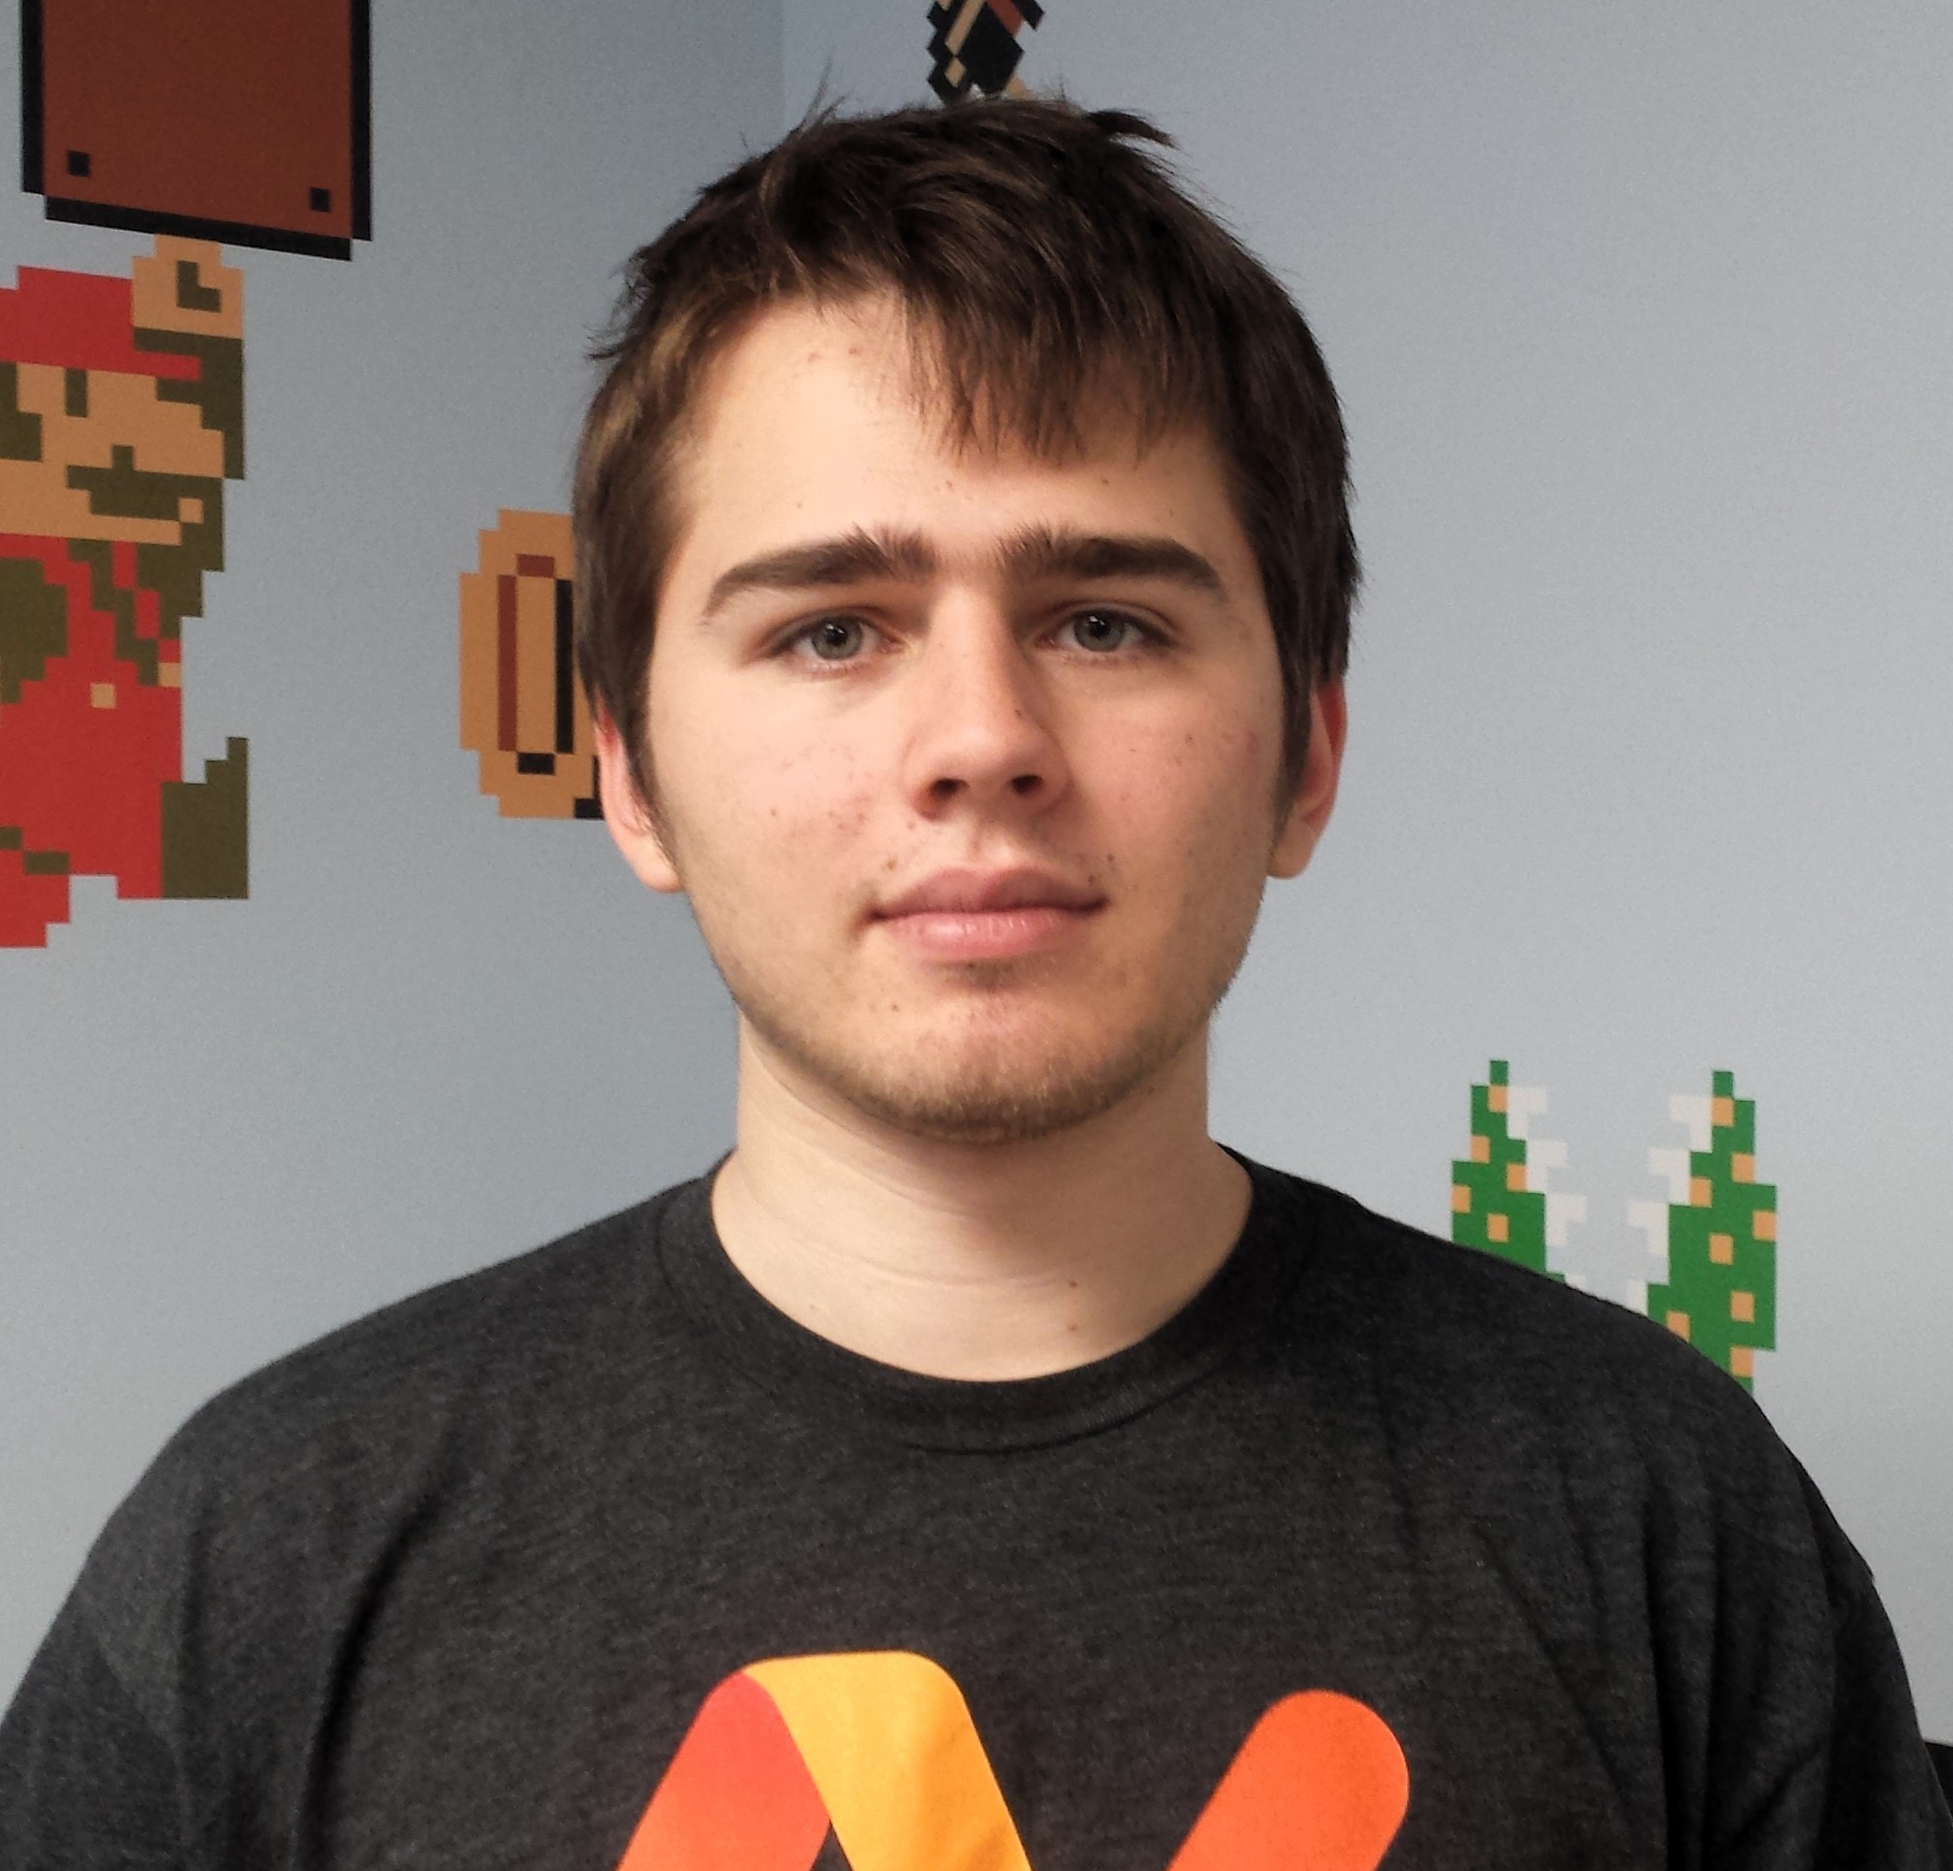
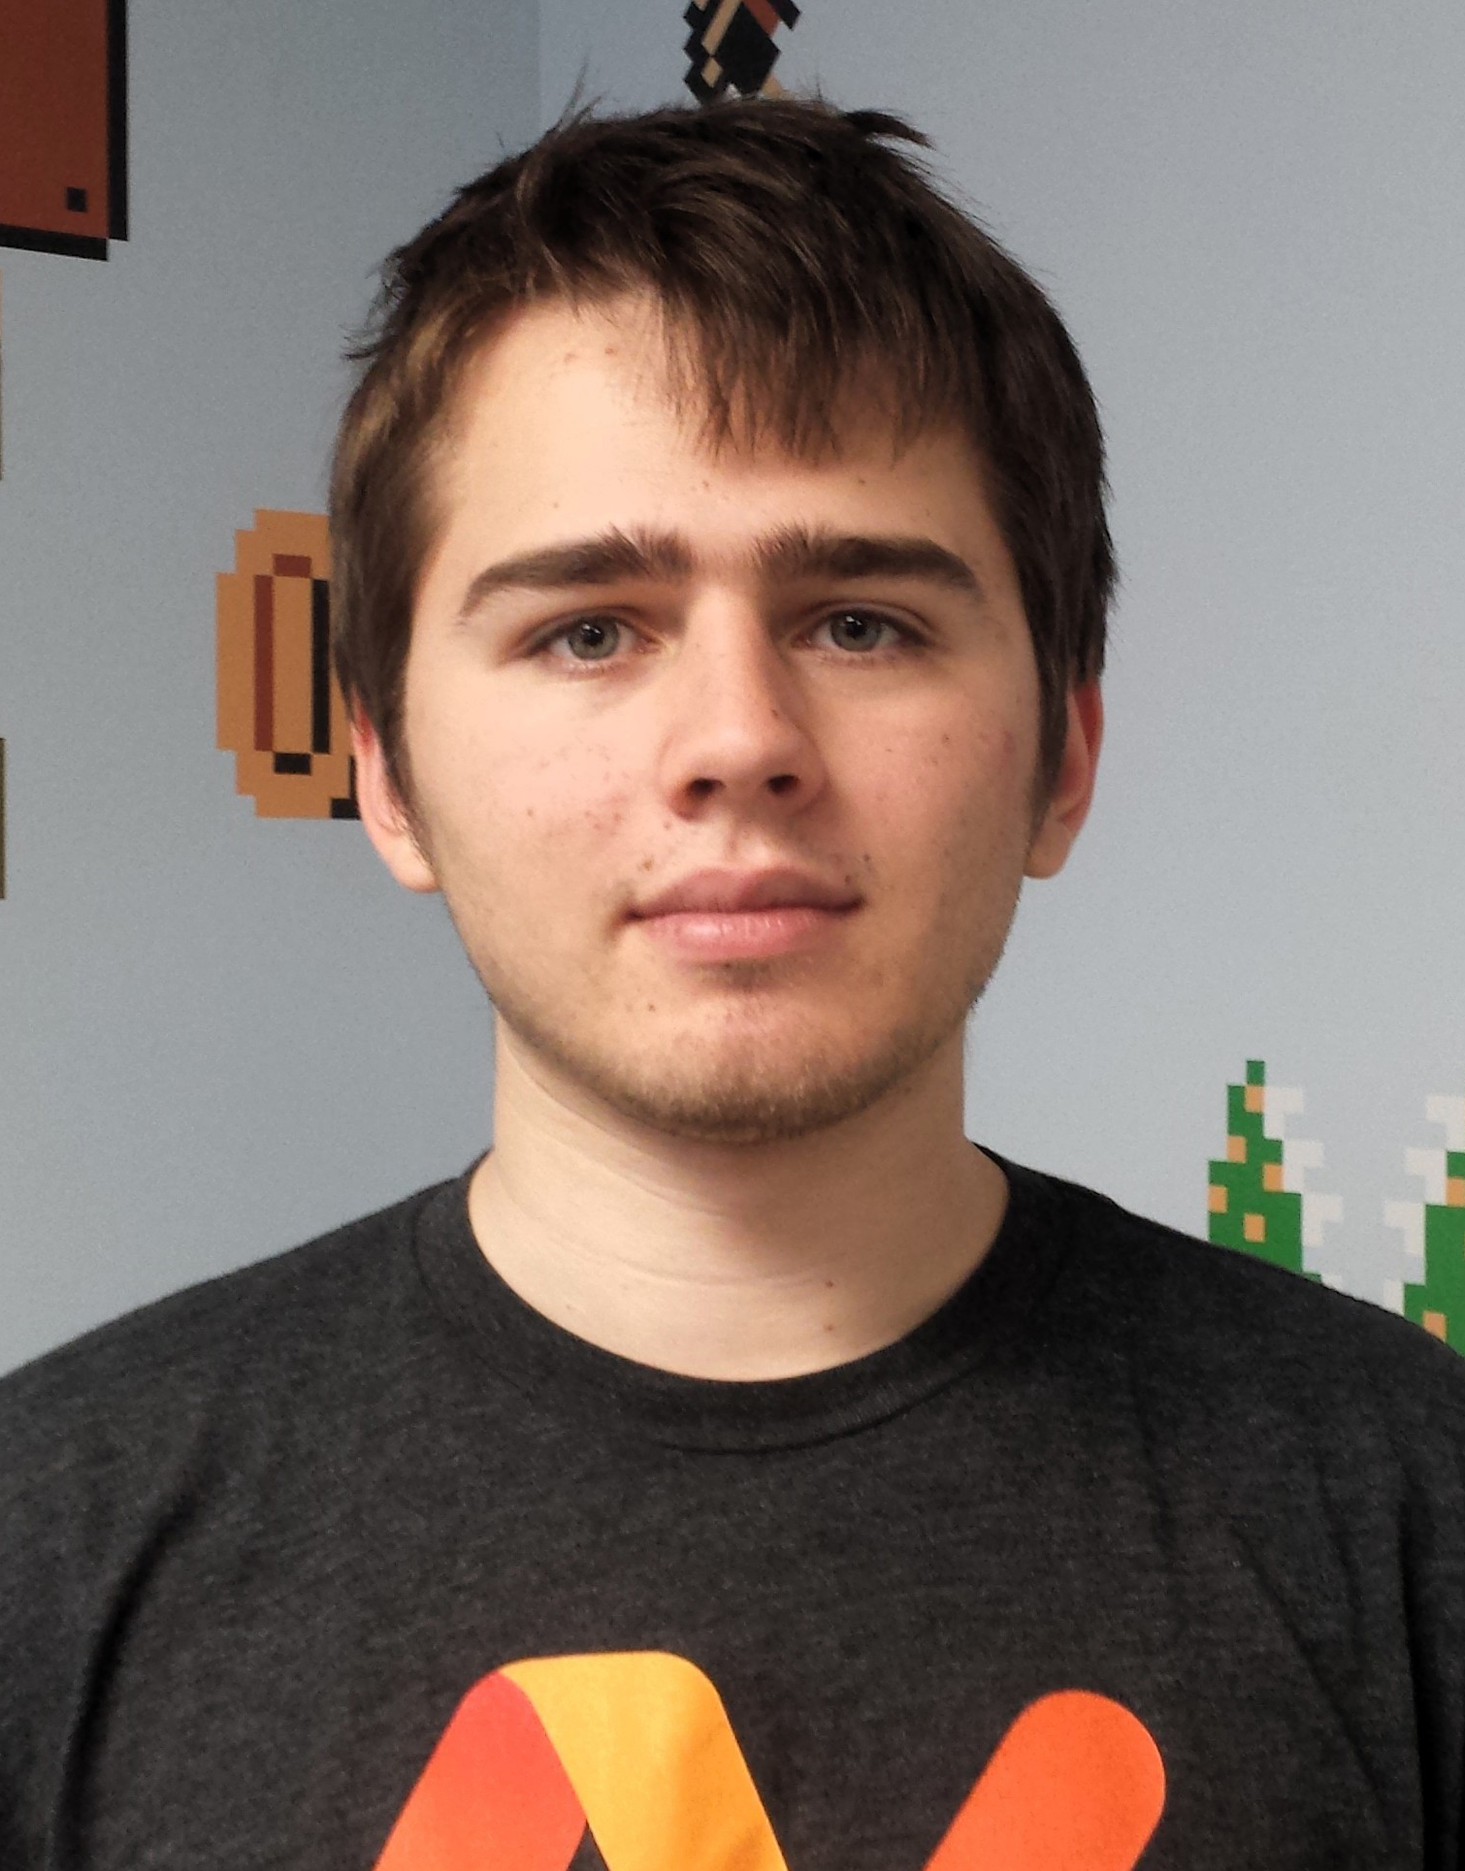
Adding some news posts and resizing team photos

diff --git a/news/_posts/2017-07-17-nsf-cmmi-creativit-measurement-grant.md b/news/_posts/2017-07-17-nsf-cmmi-creativit-measurement-grant.md
@@ -1,0 +1,11 @@
+---
+layout: news
+title: "Mark awarded NSF grant for creativity measurement research"
+author: "Mark Fuge"
+author_handle: "fuge"
+image: /assets/images/news/default-news.png
+category: news
+tags: [grant,NSF, creativity]
+---
+
+Dr. Mark Fuge has been awarded an National Science Foundation grant from the CMMI [Engineering Systems and Design program](https://www.nsf.gov/funding/pgm_summ.jsp?pims_id=13340) for a project entitled ["Collaborative Research: Improving the Validity and Reliability of Creativity Ratings in Engineering Design"](https://www.nsf.gov/awardsearch/showAward?AWD_ID=1728086&HistoricalAwards=false) in partnership with [Scarlett Miller](http://www.engr.psu.edu/britelab/scarlett.html) and [Sam Hunter](http://www.hunter.la.psu.edu/meet-the-lab/directory/sth11) from Penn State University. The grant builds upon our past work in [creativity measurement](/papers/paper/fuge-idetc-creativity-inference) and [statistics](/papers/paper/fuge-idetc-dtm-stats) by studying how to verify and validate different measurement scales for how to systematically measure creativity.

diff --git a/news/_posts/2017-08-30-fuge-DARPA-YFA-award.md b/news/_posts/2017-08-30-fuge-DARPA-YFA-award.md
@@ -1,0 +1,11 @@
+---
+layout: news
+title: "Mark awarded DARPA Young Faculty Award to study Design Manifolds"
+author: "Mark Fuge"
+author_handle: "fuge"
+image: /assets/images/news/default-news.png
+category: news
+tags: [grant,DARPA]
+---
+
+Dr. Mark Fuge has been awarded a [DARPA Young Faculty Award](https://www.darpa.mil/work-with-us/for-universities/young-faculty-award) for a project entitled "Topology and Synthesis of Design Manifolds" as part of the "Functional Mathematical Tools for Design" topic area. The grant builds upon our [past work](/papers/paper/jmd-design-manifolds) in [Design Manifolds](/papers/paper/idetc-design-embedding) by studying how multiple part manifolds interact in assemblies and how mathematical tools from topology, group theory, and machine learning can aid human exploration of large, complex design spaces.

diff --git a/news/_posts/2017-01-17-gemstone-mindlin-foundation-grant.md b/news/_posts/2017-01-17-gemstone-mindlin-foundation-grant.md
@@ -1,0 +1,11 @@
+---
+layout: news
+title: "TEAM Print awarded Mindlin Foundation grant for symbolic CAD research"
+author: "Mark Fuge"
+author_handle: "fuge"
+image: /assets/images/news/default-news.png
+category: news
+tags: [grant, Mindlin, sketching]
+---
+
+[Team PRINT](http://teamprint.mybluemix.net/), an Undergraduate [Gemstone](http://www.gemstone.umd.edu/) research team advised by Dr. Mark Fuge, has been awarded a [Mindlin Foundation](https://mindlinfoundation.org/) grant for a project entitled "Stroke-based Symbolic Vocabulary Implementation in Computer Aided Design". The project studies how non-experts use symbols and gestures to identify common CAD operations with the goal of improving sketch-based CAD interfaces.

diff --git a/news/_posts/2017-04-12-ETC-ONR-award.md b/news/_posts/2017-04-12-ETC-ONR-award.md
@@ -1,0 +1,11 @@
+---
+layout: news
+title: "Mark Fuge and Peter Chung awarded ONR grant to study Machine Learning for Material Science"
+author: "Mark Fuge"
+author_handle: "fuge"
+image: /assets/images/news/default-news.png
+category: news
+tags: [grant, ONR]
+---
+
+Dr. Mark Fuge and [Dr. Peter Chung](http://www.enme.umd.edu/faculty/chung) in partnership with [ETC](http://www.etcmd.com/) have been awarded a grant from the Office of Naval Research for a project entitled "Machine Learning for Energetic Materials". The grant studies how to use tools from machine learning to understand new material compositions through both materials databases and academic literature (such as, journal papers).
